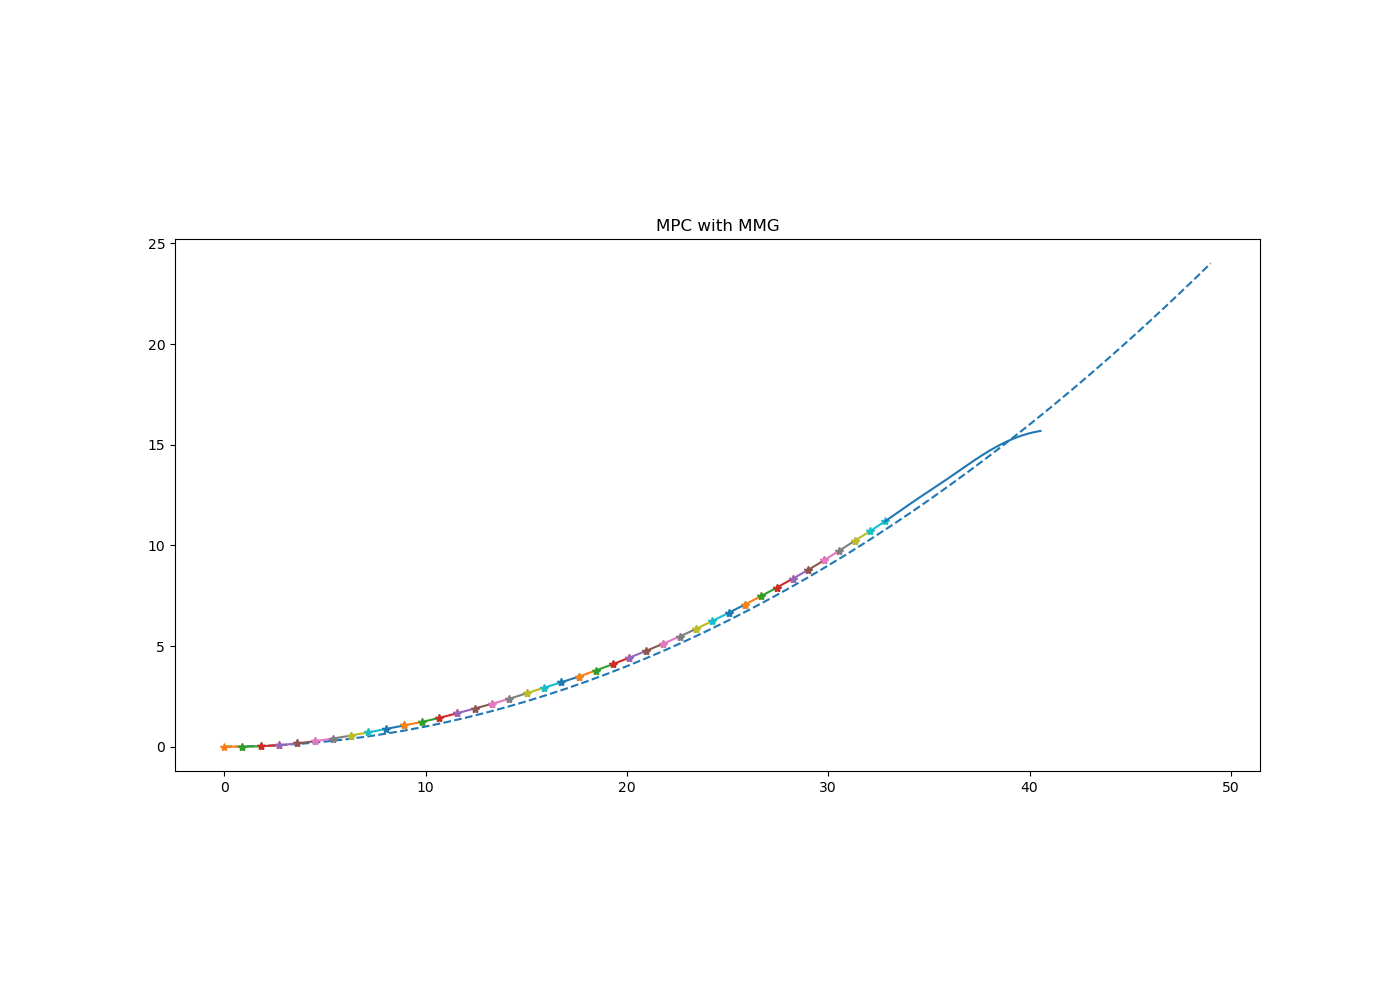
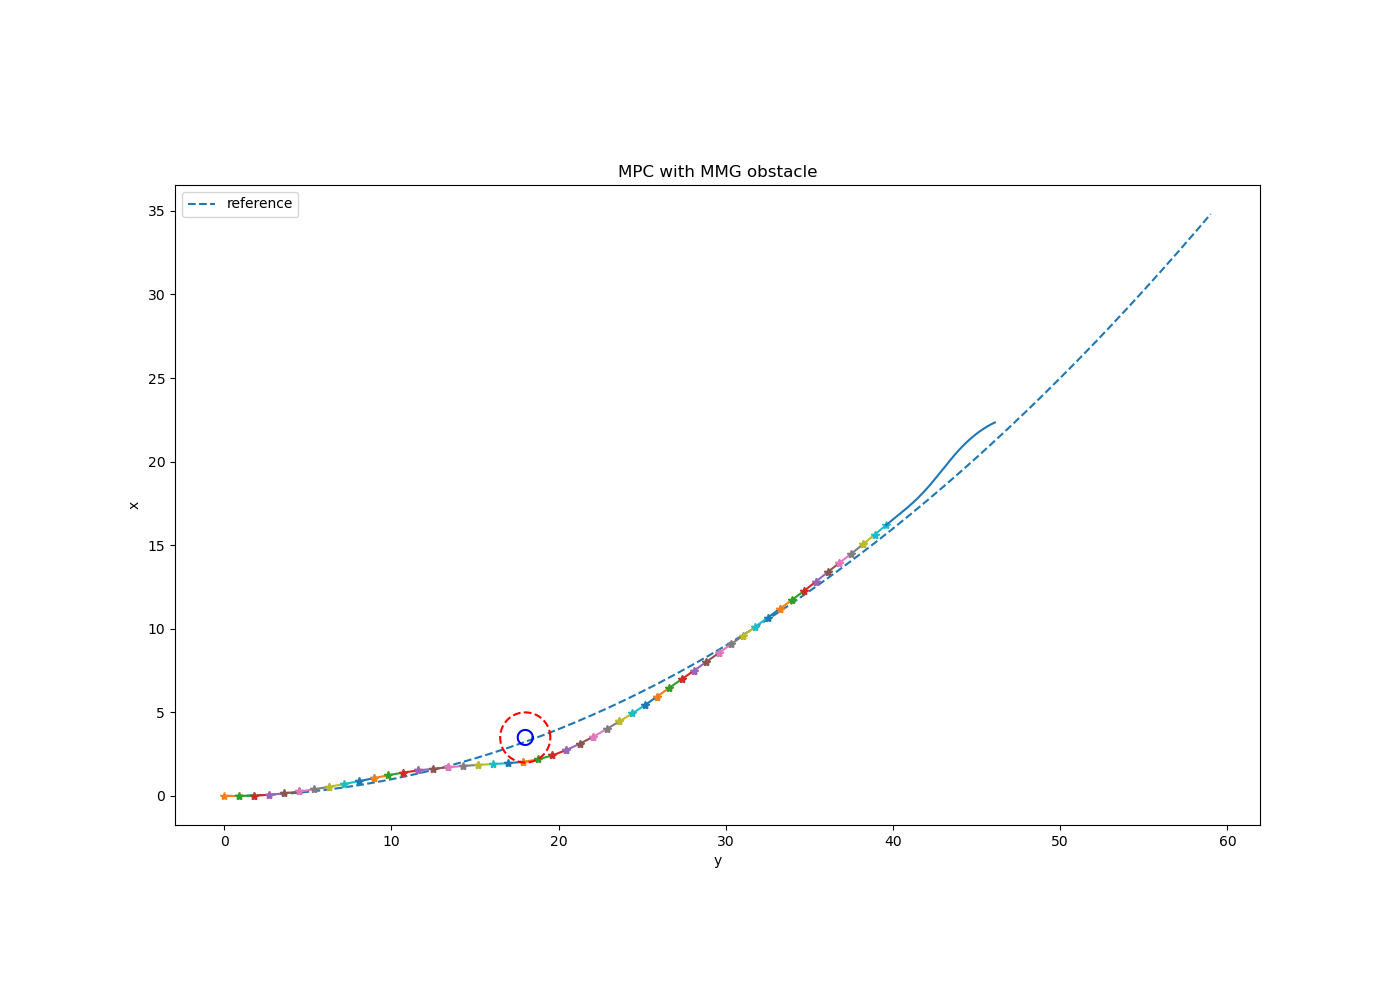
mmg_1_sec

diff --git a/_init_.py b/_init_.py
@@ -8,9 +8,12 @@ from scipy.interpolate import CubicSpline
 from MMG3 import simulation
 from NMPC import controller,ship
 from params import fsparam
+from Guide import Guide
+
 
 p = fsparam()
 Np = p.Np
+G = Guide()
 
 def past(ar,n):
     li = []
@@ -21,12 +24,12 @@ def past(ar,n):
 C = controller()
 S = ship()
 
-ReferenceWindow = 50 
+ReferenceWindow = 80 
 SimumlationWindow = ReferenceWindow-C.P
 
 
 xref = np.linspace(0,ReferenceWindow-1,ReferenceWindow)
-yref = (xref/10)**2
+yref = (xref/20)**2
 xrefd = xref - past(xref,1)
 yrefd = yref - past(yref,1)
 
@@ -41,17 +44,29 @@ x_ex = np.linspace(min(x),max(x),200)
 y_ex = spline(x_ex)
 
 
+
+
 uopt = np.ones((SimumlationWindow,C.P))
 
+ContMag = 1
 tdiscrete = np.linspace(0,C.P-1,C.P)
-tcontinuous = np.linspace(0,C.P-1,C.P*100)
+tcontinuous = np.linspace(0,C.P-1,C.P*ContMag)
 time = tdiscrete
 
 # time = cd.SX(np.linspace(0,19,20))
 
 Xref = cd.SX(np.array([xref,yref,psiref]).T)
 
+def circle(a,b,r):
+    theta = np.linspace(0,2*np.pi,100)
 
+    x = a + r*np.cos(theta)
+    y = b + r*np.sin(theta)
+
+    xo = a+r*0.3*np.cos(theta)
+    yo = b+r*0.3*np.sin(theta)
+
+    plt.plot(x,y,"--r",xo,yo,"b")
 
 # Ship takes [x,y,psi,u,v,r,delta]
 # MMG takes [u,v,r,x,y,psi,delta,Np]
@@ -63,13 +78,15 @@ xini = X0.copy()
 i = 0
 while i<SimumlationWindow:
     # u = np.zeros(10)
-    refr = Xref[i:i+10,:]
+    refr = Xref[i:i+C.P,:]
     uoptd = C.nlpsolve(refr,xini,time)
     uopt[i,:] = np.array(uoptd)[:,0]
     uoptm = uopt[i,:]
-    uoptcont = uoptm[((tcontinuous-0.01)//1).astype(int)]
-    y = S.simulation(xini,uoptcont,tcontinuous)
-    xini[:] = y[:,100]
+    uoptcont = uoptm[(tcontinuous//1).astype(int)]
+    print(uoptcont)
+    y = simulation(xini,uoptcont,tcontinuous)
+    # y = simulation(xini,uoptm,time)
+    xini[:] = y[:,1*ContMag]
     i+=1
 
 
@@ -79,9 +96,10 @@ initx = X0.copy()
 while i<SimumlationWindow:
     var = f"pred_{i}"
     uoptml = uopt[i,:]
-    ucont = uoptml[((tcontinuous-0.01)//1).astype(int)]
-    value = S.simulation(initx,ucont,tcontinuous)
-    initx = value[:,100]
+    ucont = uoptml[(tcontinuous//1).astype(int)]
+    # value = simulation(initx,uoptml,time)
+    value = simulation(initx,ucont,tcontinuous)
+    initx = value[:,1*ContMag]
     # print(value,"initx--")
     simdict[var] = value    
     i+=1
@@ -91,19 +109,21 @@ plt.figure(figsize=(14,10))
 plt.plot(xref,yref,"--",label="reference")
 j = 0
 while j<SimumlationWindow:
-    if j== SimumlationWindow-1:
-        plt.plot(simdict[f"pred_{j}"][3,:],simdict[f"pred_{j}"][4,:], "-", label = f"iter{j+1}")
+    if j== SimumlationWindow-1+1:
+        plt.plot(simdict[f"pred_{j}"][3,:],simdict[f"pred_{j}"][4,:], "-")
     else:
-        # plt.plot(simdict[f"pred_{j}"][3,:][[0,100]],simdict[f"pred_{j}"][4,:][[0,100]], "-*", label = f"iter{j+1}")
-        plt.plot(simdict[f"pred_{j}"][3,:],simdict[f"pred_{j}"][4,:], "--", label = f"iter{j+1}")
+        plt.plot(simdict[f"pred_{j}"][3,:][[0,1]],simdict[f"pred_{j}"][4,:][[0,1]], "-*", )
+        # plt.plot(simdict[f"pred_{j}"][3,:],simdict[f"pred_{j}"][4,:], "--", )
     j+=1
 
 
-# circle(10,0.8,1.5)
+# circle(18,3.5,1.5)
 ax = plt.gca()
 ax.set_aspect('equal', adjustable='box')
-# plt.legend()
-plt.title("MPC with MMG")
+plt.legend()
+plt.title("MPC with MMG obstacle")
+plt.xlabel("y")
+plt.ylabel("x")
 # plt.savefig("mpcobs_mmg_pred.png")
 plt.show()
 

diff --git a/NMPC.py b/NMPC.py
@@ -199,7 +199,7 @@ class ship():
        
 class controller():
     def __init__(self):
-        self.P = 10
+        self.P = 15
         self.C = 1
         self.Q = np.array([[1,0,0,0],[0,1,0,0],[0,0,1,0],[0,0,0,1]])
 
@@ -215,10 +215,10 @@ class controller():
 
 
 
-        T = 10
-        K = 0.5
-        a = 2.3
-        b = 0.01
+        T = 1.28
+        K = 0.112
+        a = -28.05
+        b = 0.0015
 
         Kp = 0.9
         stder = cd.SX(7,1)
@@ -254,25 +254,34 @@ class controller():
         x_pred = y[:,3]
         y_pred = y[:,4]
         psi_pred = y[:,5]
-        print("Reference size: ",ref.shape)
-        f = cd.sum1(2.5*cd.sum2((ref[:,0]-x_pred)**2) + 2.5*cd.sum2((ref[:,1]-y_pred)**2) + cd.sum2((ref[:,2]-psi_pred))**2) + cd.sum1(self.control_variable)
+        a = [138]
+        b = [13.5]
+        r = 1.5
+        self.k = [r**2 - a[0]**2 - b[0]**2]
+        # print("Reference size: ",ref.shape)
+        self.g = cd.vertcat(x_pred**2 + y_pred**2 - 2*a[0]*x_pred - 2*b[0]*y_pred)
+
+        f = cd.sum1(2.5*cd.sum2((ref[:,0]-x_pred)**2) + 2.5*cd.sum2((ref[:,1]-y_pred)**2) + cd.sum2((ref[:,2]-psi_pred))**2) + cd.sum1(self.control_variable**2)
         return f
     
 
     def nlpsolve(self,ref,X,t):
         X0 = X.copy()
-        u0 = np.zeros(10)
+        u0 = np.zeros(self.P)
         lbx = [-0.610]*self.P
         ubx = [0.610]*self.P
         P = []
-        g = [0]
-        ubg = [0]
-        lbg = [0]
+
+
         f = self.cost(ref,X0,t)
+        g = self.g
+
+        lbg = cd.vertcat(np.ones(self.P)*self.k[0])
+        ubg = [cd.inf,cd.inf,cd.inf]
 
         nlp = {"x":self.control_variable,"f":f, "g":g}
         solver = cd.nlpsol('solver','ipopt',nlp)
-        solved = solver(x0 = u0,lbx = lbx,ubx=ubx)
+        solved = solver(x0 = u0,lbx = lbx,ubx=ubx,lbg=lbg)
         print(solved['x'])
         return solved['x']
     

diff --git a/MMG3.py b/MMG3.py
@@ -104,6 +104,8 @@ def _mmgder(var,dc):
     delta = var[6]            # Rudder Angle 
     # Np = var[7]               # Propeller Speed
     Np = Np_d
+
+
     
     
     Ures = sqrt(u**2 + v**2)     # Resulatant Velocity
@@ -231,7 +233,7 @@ def simulation(X0,control,t):
     sol = np.zeros([7,n])
     i = 0
     xinit = X0.copy()
-    while i<n:
+    while i<2:
         sol[:,i] = xinit[:]
         xd = _mmgder(xinit,control[i])
         xup = xd*h + xinit

diff --git a/animate.py b/animate.py
@@ -60,4 +60,4 @@ animation = FuncAnimation(fig, update, frames=len(x_data), interval=200, blit=Tr
 
 # Show the plot
 plt.show()
-# animation.save('obs_incoming_speed_2.gif', writer = 'pillow', fps = 10)
+animation.save('obs_incoming_fail.gif', writer = 'pillow', fps = 10)
